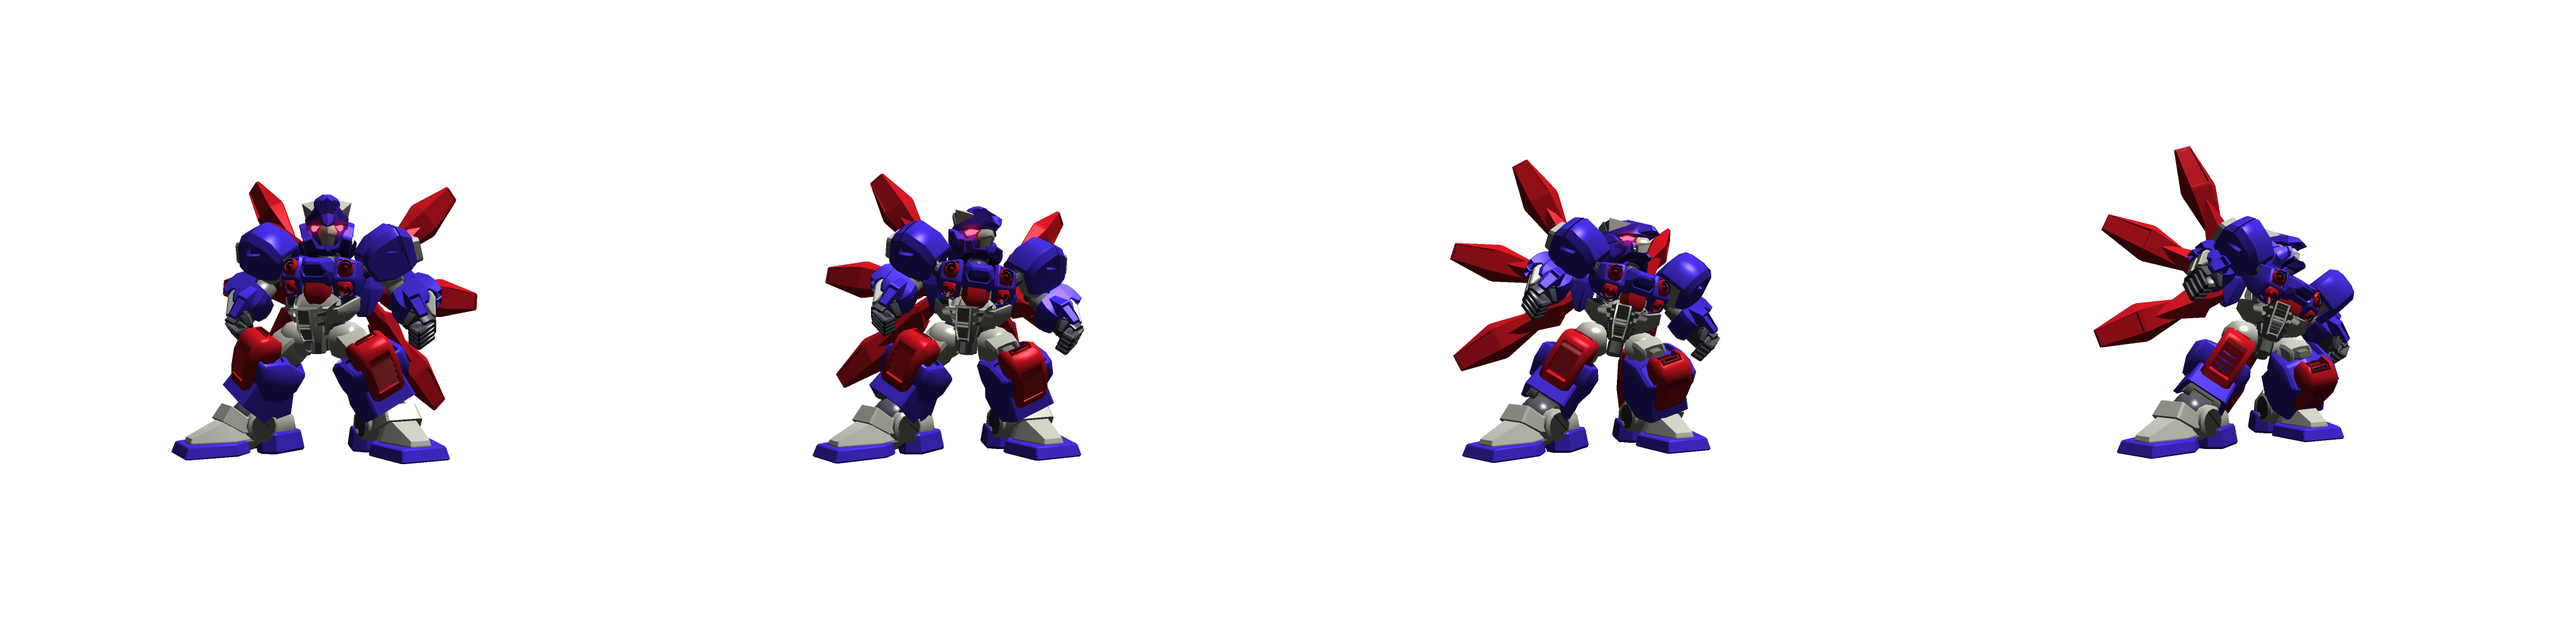
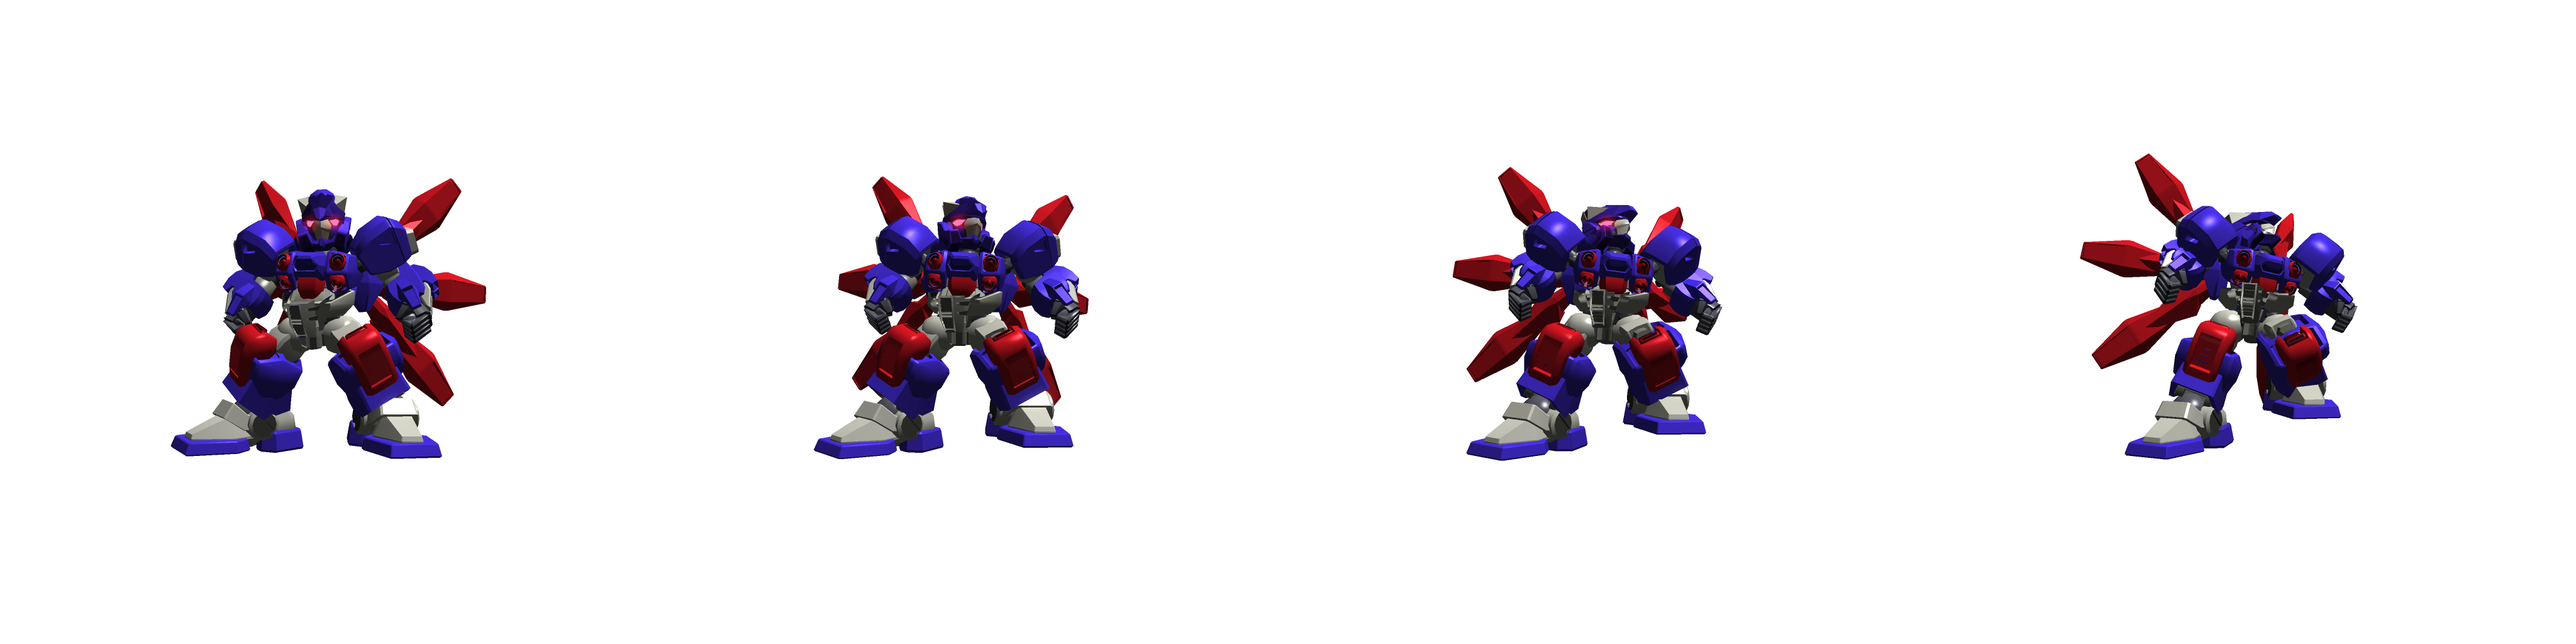
ダウン画像を追加した

diff --git a/src/js/game-object/armdozer/wing-dozer/view/player-wing-dozer-view.js b/src/js/game-object/armdozer/wing-dozer/view/player-wing-dozer-view.js
@@ -14,6 +14,7 @@ import {wingDozerDashUp} from "../mesh/dash-up";
 import {wingDozerDashDown} from "../mesh/dash-down";
 import {wingDozerDashToStand} from "../mesh/dash-to-stand";
 import {wingDozerKnockBack} from "../mesh/knock-back";
+import {wingDozerDown} from "../mesh/down";
 
 /**
  * プレイヤー側 ウィングドーザ ビュー
@@ -27,6 +28,7 @@ export class PlayerWingDozerView implements WingDozerView{
   _dashDown: ArmdozerAnimation;
   _dashToStand: ArmdozerAnimation;
   _knockBack: ArmdozerAnimation;
+  _down: ArmdozerAnimation;
   _group: THREE.Group;
 
   /**
@@ -43,6 +45,7 @@ export class PlayerWingDozerView implements WingDozerView{
     this._dashDown = wingDozerDashDown(resources);
     this._dashToStand = wingDozerDashToStand(resources);
     this._knockBack = wingDozerKnockBack(resources);
+    this._down = wingDozerDown(resources);
 
     this._group = new Group();
     this._getAllMeshes().forEach(mesh => {
@@ -106,6 +109,7 @@ export class PlayerWingDozerView implements WingDozerView{
       this._dashDown,
       this._dashToStand,
       this._knockBack,
+      this._down,
     ];
   }
 
@@ -133,6 +137,8 @@ export class PlayerWingDozerView implements WingDozerView{
         return this._dashToStand;
       case 'KNOCK_BACK':
         return this._knockBack;
+      case 'DOWN':
+        return this._down;
       default:
         return this._stand;
     }

diff --git a/src/js/game-object/armdozer/wing-dozer/mesh/down.js b/src/js/game-object/armdozer/wing-dozer/mesh/down.js
@@ -1,0 +1,30 @@
+// @flow
+
+import type {ArmdozerAnimation} from "../../mesh/armdozer-animation";
+import type {Resources} from "../../../../resource";
+import {TEXTURE_IDS} from "../../../../resource/texture";
+import {HorizontalArmdozerAnimation} from "../../mesh/horizontal-animation";
+import {MESH_Y} from "./position";
+
+export const MESH_WIDTH = 600;
+export const MESH_HEIGHT = 600;
+export const MAX_ANIMATION = 4;
+
+/**
+ * ウィングドーザ ダウン
+ *
+ * @param resources リソース管理オブジェクト
+ * @return メッシュ
+ */
+export function wingDozerDown(resources: Resources): ArmdozerAnimation {
+  const ret = new HorizontalArmdozerAnimation({
+    id: TEXTURE_IDS.WING_DOZER_DOWN,
+    maxAnimation: MAX_ANIMATION,
+    resources: resources,
+    width: MESH_WIDTH,
+    height: MESH_HEIGHT
+  });
+  const object = ret.getObject3D();
+  object.position.y = MESH_Y;
+  return ret;
+}

diff --git a/src/js/resource/texture.js b/src/js/resource/texture.js
@@ -63,6 +63,7 @@ export const TEXTURE_IDS = {
   WING_DOZER_DASH_DOWN: 'WING_DOZER_DASH_DOWN',
   WING_DOZER_DASH_TO_STAND: 'WING_DOZER_DASH_TO_STAND',
   WING_DOZER_KNOCK_BACK: 'WING_DOZER_KNOCK_BACK',
+  WING_DOZER_DOWN: 'WING_DOZER_DOWN',
   HITMARK_SHOCK_WAVE_LINE: 'HITMARK_SHOCK_WAVE_LINE',
   HITMARK_SHOCK_WAVE_RING: 'HITMARK_SHOCK_WAVE_RING',
   HITMARK_LIGHTNING_RING: 'HITMARK_LIGHTNING_RING',
@@ -257,6 +258,10 @@ export const TEXTURE_CONFIGS: TextureConfig[] = [
   {
     id: TEXTURE_IDS.WING_DOZER_KNOCK_BACK,
     path: 'armdozer/wing-dozer/knock-back.png',
+  },
+  {
+    id: TEXTURE_IDS.WING_DOZER_DOWN,
+    path: 'armdozer/wing-dozer/down.png',
   },
   // ヒットマーク関連
   {

diff --git a/src/js/game-object/armdozer/wing-dozer/model/wing-dozer-model.js b/src/js/game-object/armdozer/wing-dozer/model/wing-dozer-model.js
@@ -11,7 +11,8 @@ export type AnimationType =
   'DASH_UP' |
   'DASH_DOWN' |
   'DASH_TO_STAND' |
-  'KNOCK_BACK';
+  'KNOCK_BACK' |
+  'DOWN';
 
 /**
  * ウィングドーザ モデル
